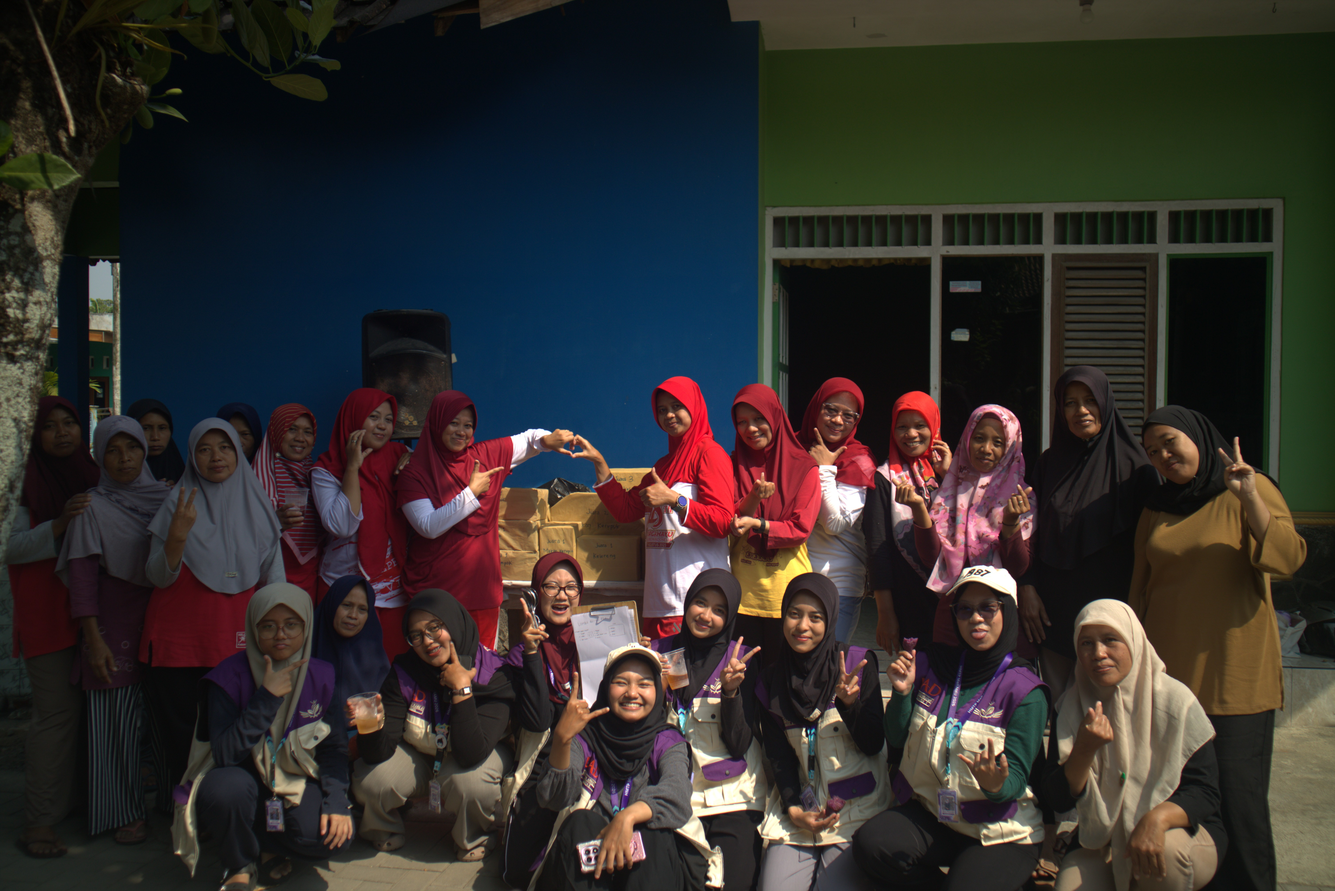
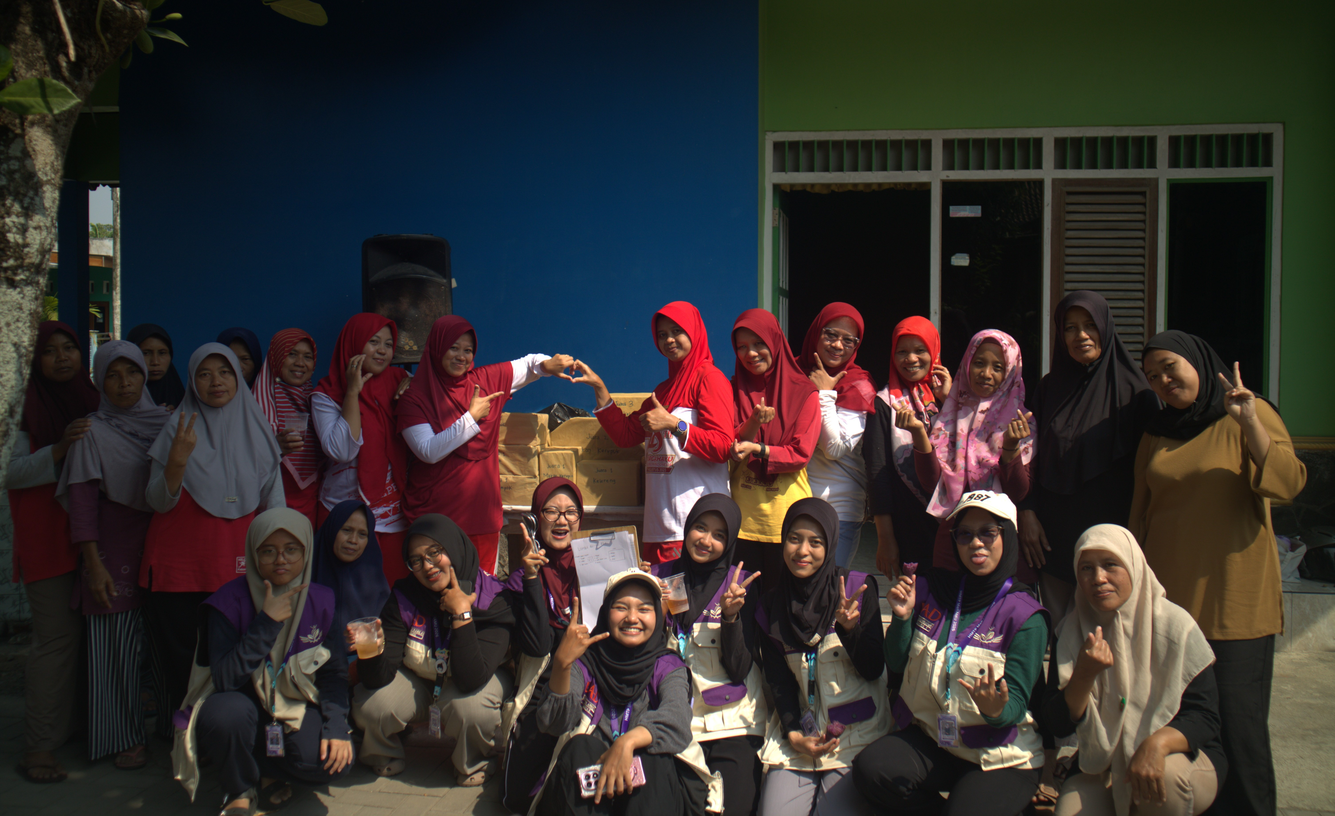
update dokumentasi

diff --git a/src/components/MeramuPage.tsx b/src/components/MeramuPage.tsx
@@ -1,4 +1,4 @@
-import React, { useState } from 'react';
+import React, { useState, useEffect } from 'react';
 import { motion, AnimatePresence } from 'framer-motion';
 import { 
   GraduationCap, 
@@ -23,6 +23,69 @@ import penerjunan1 from '../assets/penerjunan1.JPG';
 import penerjunan2 from '../assets/penerjunan2.JPG';
 import penerjunan3 from '../assets/penerjunan3.JPG';
 import penerjunan4 from '../assets/penerjunan4.JPG';
+
+import sosialisasitalastika1 from '../assets/sosialisasitalastika1.jpg';
+import sosialisasitalastika2 from '../assets/sosialisasitalastika2.jpg';
+import sosialisasitalastika3 from '../assets/sosialisasitalastika3.jpg';
+import sosialisasitalastika4 from '../assets/sosialisasitalastika4.jpg';
+
+import silaturrahimpcm1 from '../assets/silaturrahimpcm1.jpg';
+import silaturrahimpcm2 from '../assets/silaturrahimpcm2.JPG';
+import silaturrahimpcm3 from '../assets/silaturrahimpcm3.JPG';
+import silaturrahimpcm4 from '../assets/silaturrahimpcm4.JPG';
+
+import tpa1 from '../assets/tpa1.JPG';
+import tpa2 from '../assets/tpa2.JPG';
+import tpa3 from '../assets/tpa3.JPG';
+import tpa4 from '../assets/tpa4.JPG';
+import tpa5 from '../assets/tpa5.JPG';
+import tpa6 from '../assets/tpa6.JPG';
+import tpa7 from '../assets/tpa7.JPG';
+
+import kajian1 from '../assets/kajian1.jpg';
+import kajian2 from '../assets/kajian2.jpg';
+import kajian3 from '../assets/kajian3.jpg';
+import kajian4 from '../assets/kajian4.jpg';
+
+import tirakatan1 from '../assets/tirakatan1.jpg';
+import tirakatan2 from '../assets/tirakatan2.jpg';
+import tirakatan3 from '../assets/tirakatan3.JPG';
+import tirakatan4 from '../assets/tirakatan4.JPG';
+import tirakatan5 from '../assets/tirakatan5.JPG';
+import tirakatan6 from '../assets/tirakatan6.JPG';
+import tirakatan7 from '../assets/tirakatan7.JPG';
+import tirakatan8 from '../assets/tirakatan8.JPG';
+import tirakatan9 from '../assets/tirakatan9.JPG';
+
+import harisehat1 from '../assets/harisehat1.jpg';
+import harisehat2 from '../assets/harisehat2.jpg';
+import harisehat3 from '../assets/harisehat3.jpg';
+import harisehat5 from '../assets/harisehat5.jpg';
+
+import harikemerdekaan1 from '../assets/harikemerdekaan1.jpg';
+import harikemerdekaan2 from '../assets/harikemerdekaan2.jpg';
+import harikemerdekaan3 from '../assets/harikemerdekaan3.jpg';
+import harikemerdekaan4 from '../assets/harikemerdekaan4.jpg';
+import harikemerdekaan6 from '../assets/harikemerdekaan6.jpg';
+import harikemerdekaan7 from '../assets/harikemerdekaan7.jpg';
+import harikemerdekaan8 from '../assets/harikemerdekaan8.jpg';
+import harikemerdekaan9 from '../assets/harikemerdekaan9.jpg';
+import harikemerdekaan10 from '../assets/harikemerdekaan10.jpg';
+import harikemerdekaan11 from '../assets/harikemerdekaan11.JPG';
+import harikemerdekaan13 from '../assets/harikemerdekaan13.jpg';
+import harikemerdekaan14 from '../assets/harikemerdekaan14.jpg';
+import harikemerdekaan15 from '../assets/harikemerdekaan15.jpg';
+import harikemerdekaan16 from '../assets/harikemerdekaan16.jpg';
+import harikemerdekaan17 from '../assets/harikemerdekaan17.jpg';
+
+import karangtaruna1 from '../assets/karangtaruna1.jpg';
+import karangtaruna2 from '../assets/karangtaruna2.jpg';
+import karangtaruna3 from '../assets/karangtaruna3.jpg';
+import karangtaruna4 from '../assets/karangtaruna4.jpg';
+import karangtaruna5 from '../assets/karangtaruna5.jpg';
+import karangtaruna6 from '../assets/karangtaruna6.jpg';
+import karangtaruna7 from '../assets/karangtaruna7.jpg';
+import karangtaruna8 from '../assets/karangtaruna8.jpg';
 
 interface MeramuDocPhoto {
   id: string;
@@ -77,6 +140,7 @@ const docPhotos: MeramuDocPhoto[] = [
     caption: 'Sosialisasi pengolahan tepung talas dan inovasi camilan sehat bernilai jual tinggi bersama ibu-ibu KWT.',
     colorScheme: 'from-purple-100 via-cream-100 to-purple-200',
     iconSymbol: '🥣',
+    images: [sosialisasitalastika1, sosialisasitalastika2, sosialisasitalastika3, sosialisasitalastika4],
   },
   {
     id: 'meramu-5',
@@ -156,7 +220,8 @@ const docPhotos: MeramuDocPhoto[] = [
     location: 'Kebonagung',
     caption: 'Melakukan silaturrahmi dan diskusi santai bersama Pimpinan Cabang Muhammadiyah Sleman dan Pimpinan Ranting Muhammadiyah Tridadi untuk mendengar aspirasi dan masukan terkait program pengabdian Tim Meramu HMTP.',
     colorScheme: 'from-cream-100 via-purple-100 to-cream-300',
-    iconSymbol: '👶',
+    iconSymbol: '🤝',
+    images: [silaturrahimpcm1, silaturrahimpcm2, silaturrahimpcm3, silaturrahimpcm4],
   },
   {
     id: 'meramu-14',
@@ -176,7 +241,8 @@ const docPhotos: MeramuDocPhoto[] = [
     location: 'Masjid Al-Huda Kebonagung',
     caption: 'Tim MeRAMU HMTP UAD mengisi kegiatan belajar mengajar TPA (Taman Pendidikan Al-Quran) untuk anak-anak usia dini di Padukuhan Kebonagung.',
     colorScheme: 'from-purple-200 via-cream-200 to-purple-100',
-    iconSymbol: '🎓',
+    iconSymbol: '🕌',
+    images: [tpa1, tpa2, tpa3, tpa4, tpa5, tpa6, tpa7],
   },
   {
     id: 'meramu-16',
@@ -186,7 +252,8 @@ const docPhotos: MeramuDocPhoto[] = [
     location: 'Masjid Al-Huda Kebonagung',
     caption: 'Tim MeRAMU HMTP UAD mengisi kegiatan kajian rutin Malam Jumat di Masjid Al-Huda Kebonagung dengan tema penguatan karakter dan motivasi belajar bagi generasi Islam.',
     colorScheme: 'from-purple-200 via-cream-200 to-purple-100',
-    iconSymbol: '🎓',
+    iconSymbol: '📖',
+    images: [kajian1, kajian2, kajian3, kajian4],
   },
   {
     id: 'meramu-17',
@@ -196,7 +263,18 @@ const docPhotos: MeramuDocPhoto[] = [
     location: 'Kebonagung',
     caption: 'Tim MeRAMU HMTP UAD turut berpartisipasi dalam kegiatan Malam Tirakatan Peringatan HUT RI ke-81 di Padukuhan Kebonagung.',
     colorScheme: 'from-purple-200 via-cream-200 to-purple-100',
-    iconSymbol: '🎓',
+    iconSymbol: '🕯',
+    images: [
+      tirakatan1,
+      tirakatan2,
+      tirakatan3,
+      tirakatan4,
+      tirakatan5,
+      tirakatan6,
+      tirakatan7,
+      tirakatan8,
+      tirakatan9
+    ],
   },
   {
     id: 'meramu-18',
@@ -206,27 +284,55 @@ const docPhotos: MeramuDocPhoto[] = [
     location: 'Kebonagung',
     caption: 'Tim MeRAMU HMTP UAD turut berpartisipasi dalam kegiatan Hari Sehat Bersama Masyarakat di Padukuhan Kebonagung.',
     colorScheme: 'from-purple-200 via-cream-200 to-purple-100',
-    iconSymbol: '🎓',
+    iconSymbol: '🏃',
+    images: [harisehat1, harisehat2, harisehat3, harisehat5],
   },
   {
     id: 'meramu-19',
-    title: 'Kegiatan Memperingati Hari Kemardekaan ',
+    title: 'Kegiatan Memperingati Hari Kemerdekaan',
     category: 'Sosial',
     date: 'Agustus 2026',
     location: 'Kebonagung',
-    caption: 'Tim MeRAMU HMTP UAD turut berpartisipasi dalam kegiatan memperingati Hari Kemerdekaan di Padukuhan Kebonagung.',
+    caption: 'Tim MeRAMU HMTP UAD turut berpartisipasi aktif dalam memeriahkan dan menyukseskan rangkaian perlombaan peringatan Hari Kemerdekaan RI bersama warga Padukuhan Kebonagung.',
     colorScheme: 'from-purple-200 via-cream-200 to-purple-100',
-    iconSymbol: '🎓',
+    iconSymbol: '🇮🇩',
+    images: [
+      harikemerdekaan1,
+      harikemerdekaan2,
+      harikemerdekaan3,
+      harikemerdekaan4,
+      harikemerdekaan6,
+      harikemerdekaan7,
+      harikemerdekaan8,
+      harikemerdekaan9,
+      harikemerdekaan10,
+      harikemerdekaan11,
+      harikemerdekaan13,
+      harikemerdekaan14,
+      harikemerdekaan15,
+      harikemerdekaan16,
+      harikemerdekaan17
+    ],
   },
   {
-    id: 'meramu-19',
+    id: 'meramu-20',
     title: 'Silaturrahmi Bersama Karang Taruna dan Kelompok Wanita Tani',
     category: 'Sosial',
     date: 'Agustus 2026',
     location: 'Kebonagung',
-    caption: '',
+    caption: 'Sesi silaturrahmi, diskusi sinergi, dan perumusan program bersama Karang Taruna serta Kelompok Wanita Tani (KWT) Kebonagung.',
     colorScheme: 'from-purple-200 via-cream-200 to-purple-100',
-    iconSymbol: '🎓',
+    iconSymbol: '🤝',
+    images: [
+      karangtaruna1,
+      karangtaruna2,
+      karangtaruna3,
+      karangtaruna4,
+      karangtaruna5,
+      karangtaruna6,
+      karangtaruna7,
+      karangtaruna8
+    ],
   },
 ];
 
@@ -238,6 +344,24 @@ export const MeramuPage: React.FC<MeramuPageProps> = ({ onBackToHome }) => {
   const [selectedPhoto, setSelectedPhoto] = useState<MeramuDocPhoto | null>(null);
   const [currentImageIndex, setCurrentImageIndex] = useState<number>(0);
   const [activeFilter, setActiveFilter] = useState<string>('Semua');
+
+  // Keyboard navigation for photo modal
+  useEffect(() => {
+    const handleKeyDown = (e: KeyboardEvent) => {
+      if (!selectedPhoto) return;
+      if (e.key === 'Escape') {
+        setSelectedPhoto(null);
+      } else if (selectedPhoto.images && selectedPhoto.images.length > 1) {
+        if (e.key === 'ArrowLeft') {
+          setCurrentImageIndex((prev) => (prev === 0 ? selectedPhoto.images!.length - 1 : prev - 1));
+        } else if (e.key === 'ArrowRight') {
+          setCurrentImageIndex((prev) => (prev === selectedPhoto.images!.length - 1 ? 0 : prev + 1));
+        }
+      }
+    };
+    window.addEventListener('keydown', handleKeyDown);
+    return () => window.removeEventListener('keydown', handleKeyDown);
+  }, [selectedPhoto]);
 
   const categories = ['Semua', 'Pelatihan', 'Digitalisasi', 'Kemitraan', 'Sosial'];
 
@@ -691,7 +815,7 @@ export const MeramuPage: React.FC<MeramuPageProps> = ({ onBackToHome }) => {
                         </button>
 
                         {/* Dot indicator */}
-                        <div className="absolute bottom-14 left-1/2 -translate-x-1/2 z-20 flex items-center gap-2 bg-purple-950/70 backdrop-blur-md px-3.5 py-1.5 rounded-full border border-cream/20 shadow-md">
+                        <div className="absolute bottom-14 left-1/2 -translate-x-1/2 z-20 flex items-center gap-1.5 bg-purple-950/70 backdrop-blur-md px-3 py-1.5 rounded-full border border-cream/20 shadow-md max-w-[85%] overflow-x-auto">
                           {selectedPhoto.images.map((_, idx) => (
                             <button
                               key={idx}
@@ -700,10 +824,10 @@ export const MeramuPage: React.FC<MeramuPageProps> = ({ onBackToHome }) => {
                                 setCurrentImageIndex(idx);
                               }}
                               aria-label={`Lihat Foto ${idx + 1}`}
-                              className={`h-2 rounded-full transition-all ${
+                              className={`h-1.5 rounded-full transition-all shrink-0 ${
                                 currentImageIndex === idx
-                                  ? 'bg-cream w-6'
-                                  : 'bg-cream/40 w-2 hover:bg-cream/70'
+                                  ? 'bg-cream w-5'
+                                  : 'bg-cream/40 w-1.5 hover:bg-cream/70'
                               }`}
                             />
                           ))}
